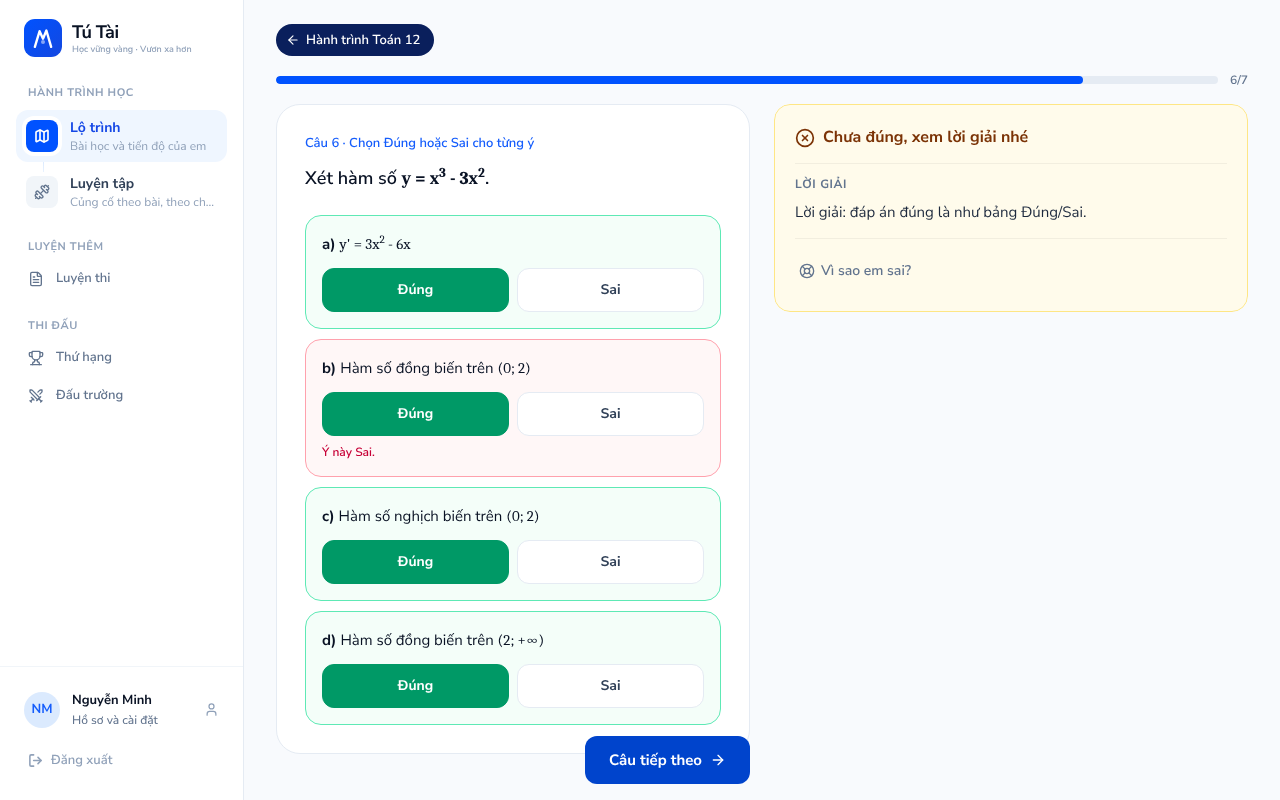
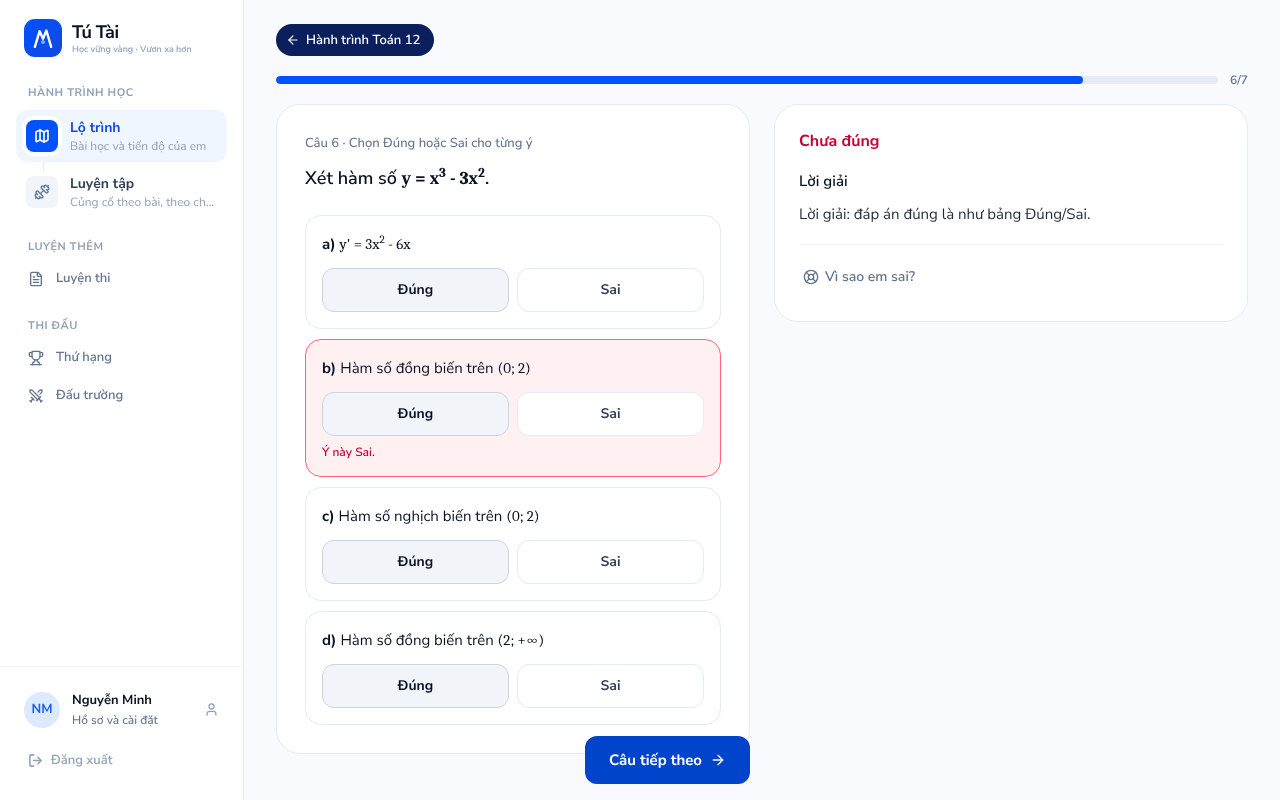
Calmer practice feedback: one colour per meaning, no decorative extras
Claude-Session: https://claude.ai/code/session_0183PJ8LAwyvZoofH1NCFUep

diff --git a/features/lessons/components/practice-session.tsx b/features/lessons/components/practice-session.tsx
@@ -159,16 +159,16 @@ function ChoiceButton({
 }) {
   const tone =
     state === 'correct'
-      ? 'border-emerald-400 bg-emerald-50'
+      ? 'border-emerald-500 bg-emerald-50'
       : state === 'wrong'
-        ? 'border-rose-300 bg-rose-50'
+        ? 'border-rose-400 bg-rose-50'
         : state === 'missed'
-          ? 'border-emerald-300 border-dashed bg-white'
+          ? 'border-emerald-500 bg-white'
           : selected
             ? 'border-[#0052FF] bg-[#F4F8FF] ring-2 ring-[#0052FF]/15'
             : 'border-[#E5EBF3] bg-white hover:border-blue-200 hover:bg-[#F8FAFF]';
   const badge =
-    state === 'correct'
+    state === 'correct' || state === 'missed'
       ? 'bg-emerald-600 text-white'
       : state === 'wrong'
         ? 'bg-rose-600 text-white'
@@ -198,9 +198,7 @@ function ChoiceButton({
       </span>
       <span className="pt-1 text-[15px] leading-6 text-[#091224]">
         <QuestionMath text={content} />
-        {state === 'missed' && (
-          <span className="block text-xs font-semibold text-emerald-700">Đáp án đúng</span>
-        )}
+        {state === 'missed' && <span className="sr-only"> (đáp án đúng)</span>}
       </span>
     </button>
   );
@@ -296,8 +294,8 @@ export function QuestionBody({
               className={`rounded-2xl border p-3.5 sm:p-4 ${
                 result
                   ? result.correct
-                    ? 'border-emerald-300 bg-emerald-50/60'
-                    : 'border-rose-300 bg-rose-50/60'
+                    ? 'border-[#E5EBF3] bg-white'
+                    : 'border-rose-400 bg-rose-50'
                   : 'border-[#E5EBF3] bg-white'
               }`}
             >
@@ -321,9 +319,9 @@ export function QuestionBody({
                       aria-pressed={selected}
                       className={`h-11 rounded-xl border text-sm font-bold transition ${
                         selected
-                          ? value
-                            ? 'border-emerald-600 bg-emerald-600 text-white'
-                            : 'border-rose-600 bg-rose-600 text-white'
+                          ? locked
+                            ? 'border-slate-300 bg-slate-100 text-[#091224]'
+                            : 'border-[#0052FF] bg-[#0052FF] text-white'
                           : 'border-[#E5EBF3] bg-white text-slate-700 hover:bg-slate-50'
                       } disabled:cursor-default`}
                       data-testid={`statement-${index}-${value ? 'true' : 'false'}`}
@@ -374,18 +372,10 @@ export function QuestionBody({
   );
 }
 
-/** "Em chọn B · Đáp án đúng: A" for a missed choice question, so the gap is stated, not hunted for. */
-function AnswerComparison({ feedback }: { feedback: PracticeFeedback }) {
-  const given = feedback.response as Answer;
+/** "A" for a missed choice question: the right answer, stated rather than hunted for. */
+function rightChoices(feedback: PracticeFeedback): string | null {
   const right = (feedback.answer as Answer)?.choices;
-  const chosen = given?.choice ? [given.choice] : given?.choices;
-  if (!chosen?.length || !right?.length) return null;
-  return (
-    <p className="mt-1.5 pl-7 text-sm text-amber-950" data-testid="answer-comparison">
-      Em chọn <strong>{chosen.join(', ')}</strong> · Đáp án đúng:{' '}
-      <strong className="text-emerald-700">{right.join(', ')}</strong>
-    </p>
-  );
+  return right?.length ? right.join(', ') : null;
 }
 
 /**
@@ -412,23 +402,16 @@ function SolutionSteps({ text }: { text: string }) {
   const steps = solutionLines(text);
   if (steps.length < 2)
     return (
-      <div className="mt-1.5 text-[15px] leading-7 whitespace-pre-line text-slate-800">
+      <div className="mt-2 text-[15px] leading-7 whitespace-pre-line text-slate-800">
         <QuestionMath text={text} />
       </div>
     );
   return (
-    <ol className="mt-2 space-y-1.5" data-testid="solution-steps">
+    <ol className="mt-2 space-y-1" data-testid="solution-steps">
       {steps.map((step, index) => (
-        <li
-          key={`${index}-${step}`}
-          className="flex gap-2.5 text-[15px] leading-7 text-slate-800 motion-safe:animate-in motion-safe:fade-in motion-safe:slide-in-from-left-1 motion-safe:fill-mode-both motion-safe:duration-300"
-          style={{ animationDelay: `${120 + index * 140}ms` }}
-        >
-          <span
-            className="mt-1.5 grid size-5 shrink-0 place-items-center rounded-full bg-white text-[11px] font-bold text-slate-500 ring-1 ring-black/10"
-            aria-hidden="true"
-          >
-            {index + 1}
+        <li key={`${index}-${step}`} className="flex gap-3 text-[15px] leading-7 text-slate-800">
+          <span className="w-5 shrink-0 text-right text-slate-400 tabular-nums" aria-hidden="true">
+            {index + 1}.
           </span>
           <span className="min-w-0 flex-1">
             <QuestionMath text={step} />
@@ -459,21 +442,25 @@ export function FeedbackPanel({
     <div
       id={id}
       tabIndex={-1}
-      className={`${className} rounded-2xl border p-4 outline-none sm:p-5 motion-safe:animate-in motion-safe:fade-in motion-safe:slide-in-from-bottom-2 motion-safe:duration-300 ${feedback.correct ? 'border-emerald-200 bg-emerald-50' : 'border-amber-200 bg-amber-50'}`}
+      className={`${className} rounded-[24px] border border-[#E5EBF3] bg-white p-5 outline-none motion-safe:animate-in motion-safe:fade-in motion-safe:duration-200 sm:p-6`}
       role="status"
       data-testid="feedback"
       data-correct={feedback.correct}
     >
       <p
-        className={`flex items-center gap-2 text-[16px] font-bold ${feedback.correct ? 'text-emerald-800' : 'text-amber-900'}`}
+        className={`text-[16px] font-bold ${feedback.correct ? 'text-emerald-700' : 'text-rose-700'}`}
       >
-        {feedback.correct ? <CheckCircle2 className="size-5" /> : <XCircle className="size-5" />}
-        {feedback.correct ? 'Chính xác!' : 'Chưa đúng, xem lời giải nhé'}
+        {feedback.correct ? 'Chính xác' : 'Chưa đúng'}
+        {!feedback.correct && rightChoices(feedback) && (
+          <span className="font-semibold text-slate-700" data-testid="answer-comparison">
+            {' '}
+            · Đáp án đúng là {rightChoices(feedback)}
+          </span>
+        )}
       </p>
-      {!feedback.correct && <AnswerComparison feedback={feedback} />}
       {feedback.explanation && (
-        <div className="mt-3 border-t border-black/5 pt-3">
-          <p className="text-xs font-bold tracking-wider text-slate-500 uppercase">Lời giải</p>
+        <div className="mt-4">
+          <h3 className="text-[15px] font-semibold text-[#091224]">Lời giải</h3>
           {feedback.guide ? (
             <SolutionGuideView
               guide={feedback.guide}
@@ -486,7 +473,7 @@ export function FeedbackPanel({
           )}
         </div>
       )}
-      {children && <div className="mt-3 border-t border-black/5 pt-3">{children}</div>}
+      {children && <div className="mt-4 border-t border-[#EEF2F7] pt-3">{children}</div>}
     </div>
   );
 }
@@ -1040,7 +1027,7 @@ function PracticeFlow({
             className="rounded-[24px] border border-[#E5EBF3] bg-white p-5 sm:p-7"
             data-testid="practice-question"
           >
-            <p className="text-[13px] font-semibold text-blue-600">
+            <p className="text-[13px] font-medium text-slate-500">
               Câu {index + 1} · {TYPE_HINT[question.type]}
             </p>
             <div

diff --git a/features/lessons/components/practice-stage.tsx b/features/lessons/components/practice-stage.tsx
@@ -1,5 +1,4 @@
 import * as React from 'react';
-import { ListChecks } from 'lucide-react';
 
 /**
  * One practice question on screen. Where the content area is wide enough, the
@@ -36,18 +35,12 @@ export function PracticeStage({
           data-testid="practice-solution-pane"
         >
           {feedback ?? (
-            <div
-              className="hidden rounded-[24px] border border-dashed border-[#D5DEEA] bg-white/60 p-6 text-center @min-[880px]/stage:block"
+            <p
+              className="hidden pt-6 text-sm text-slate-400 @min-[880px]/stage:block"
               data-testid="solution-placeholder"
             >
-              <span className="mx-auto grid size-11 place-items-center rounded-2xl bg-[#F4F8FF] text-[#0052FF]">
-                <ListChecks className="size-5" aria-hidden="true" />
-              </span>
-              <p className="mt-3 text-[15px] font-bold text-[#091224]">Kết quả và lời giải</p>
-              <p className="mx-auto mt-1 max-w-[280px] text-sm leading-6 text-slate-500">
-                Chọn đáp án rồi bấm Kiểm tra, lời giải từng bước sẽ hiện ở đây.
-              </p>
-            </div>
+              Lời giải hiện ở đây sau khi em kiểm tra.
+            </p>
           )}
         </div>
         <div className="[grid-area:a] sm:sticky sm:bottom-4 sm:z-10 sm:mt-4 sm:self-start sm:justify-self-end">

diff --git a/features/practice-exams/components/set-session.tsx b/features/practice-exams/components/set-session.tsx
@@ -542,7 +542,7 @@ export function SetSession({
             className="rounded-[24px] border border-[#E5EBF3] bg-white p-5 sm:p-7"
             data-testid="practice-question"
           >
-            <p className="text-[13px] font-semibold text-blue-600">
+            <p className="text-[13px] font-medium text-slate-500">
               Câu {index + 1} · {TYPE_HINT[question.type]}
             </p>
             <div

diff --git a/docs/reviews/practice-split-layout/BAO-CAO.md b/docs/reviews/practice-split-layout/BAO-CAO.md
@@ -22,7 +22,7 @@
 
 - Khi vùng nội dung rộng từ 880 px trở lên (tức là màn hình khoảng 1280 px trở lên, đã trừ thanh bên), trang chia làm 2 cột: **câu hỏi + phương án + nút ở bên trái**, **kết quả + lời giải từng bước + "Vì sao em sai?" ở bên phải**.
 - Cột lời giải luôn nằm trong màn hình (sticky). Lời giải dài hơn màn hình thì cuộn trong khung của nó, còn đề bài bên trái đứng yên. Sang câu mới, khung lời giải quay về đầu.
-- Trước khi chấm, cột phải hiện ô gợi ý "Kết quả và lời giải sẽ hiện ở đây", để bố cục không bị nhảy khi chấm.
+- Trước khi chấm, cột phải chỉ có một dòng chữ nhạt "Lời giải hiện ở đây sau khi em kiểm tra.".
 - Phương án ngắn (≤ 22 ký tự) xếp lưới 2 × 2, giống cách Luyện thi đang làm.
 - Nút Kiểm tra / Câu tiếp theo luôn trong tầm tay: trên desktop và tablet nó bám đáy màn hình khi câu hỏi dài, còn trên điện thoại vẫn là thanh cố định ở đáy như cũ.
 - Màn hình hẹp hơn (tablet, 1024 có thanh bên, điện thoại) vẫn xếp một cột: câu hỏi, kết quả, rồi nút.
@@ -38,11 +38,22 @@
 
 Không có cuộn ngang ở khổ nào (`scrollWidth - innerWidth = 0`).
 
+## Màu sắc và chi tiết thừa (vòng 2, theo góp ý của Thi)
+
+- Chỉ dùng 3 màu, mỗi màu một nghĩa: xanh dương là thao tác/đang chọn, xanh lá là đúng, đỏ là sai. Bỏ màu vàng ở trạng thái sai.
+- Khung lời giải giờ là nền trắng, viền giống thẻ câu hỏi. Trước đây cả khung tô xanh lá hoặc vàng. Giờ chỉ dòng kết luận có màu: "Chính xác" hoặc "Chưa đúng · Đáp án đúng là A".
+- Bỏ icon ở dòng kết luận, bỏ nhãn chữ in hoa giãn chữ "LỜI GIẢI" (thay bằng tiêu đề thường "Lời giải"), và bỏ một đường kẻ thừa.
+- Các bước lời giải đánh số thường (1. 2. 3.), không dùng vòng tròn huy hiệu, không còn hiệu ứng hiện lần lượt từng dòng.
+- Phương án đúng mà em không chọn có viền xanh liền, không dùng viền nét đứt, không ghi thêm chữ "Đáp án đúng" (trình đọc màn hình vẫn đọc được).
+- Câu Đúng/Sai: khi chọn, nút có màu xanh dương thay vì xanh lá/đỏ, vì chọn "Sai" chưa có nghĩa là làm sai. Sau khi chấm, nút đã chọn chuyển sang màu xám, và chỉ ý sai mới được tô đỏ kèm dòng "Ý này Sai/Đúng".
+- Nhãn "Câu 1 · Chọn một đáp án" đổi sang màu xám, để đề bài là chỗ nổi bật nhất.
+- Những thay đổi này nằm trong thành phần dùng chung, nên phần xem lại bài thi, xem trước ở admin và kiểm tra nhanh trong bài học cũng đổi theo.
+
 ## Ảnh
 
 Trước: `truoc/1440-3-sai.png`, `truoc/1280-4-dung-sai.png`, `truoc/390-3-sai.png`
 
-Sau: `sau/1440-1-chon-dap-an.png`, `sau/1440-3-sai.png`, `sau/1280-4-dung-sai.png`, `sau/1366x620-loi-giai-cuon-xuong.png`, `sau/1024-3-sai-vi-sao.png`, `sau/390-3-sai.png`, `sau/1440-on-chuong.png`
+Sau: `sau/1440-1-chon-dap-an.png`, `sau/1440-2-dung-loi-giai-dai.png`, `sau/1440-3-sai.png`, `sau/1440-4-dung-sai.png`, `sau/1280-4-dung-sai.png`, `sau/1366x620-loi-giai-cuon-xuong.png`, `sau/1024-3-sai-vi-sao.png`, `sau/390-3-sai.png`, `sau/1440-on-chuong.png`
 
 ## Đã kiểm tra
 
